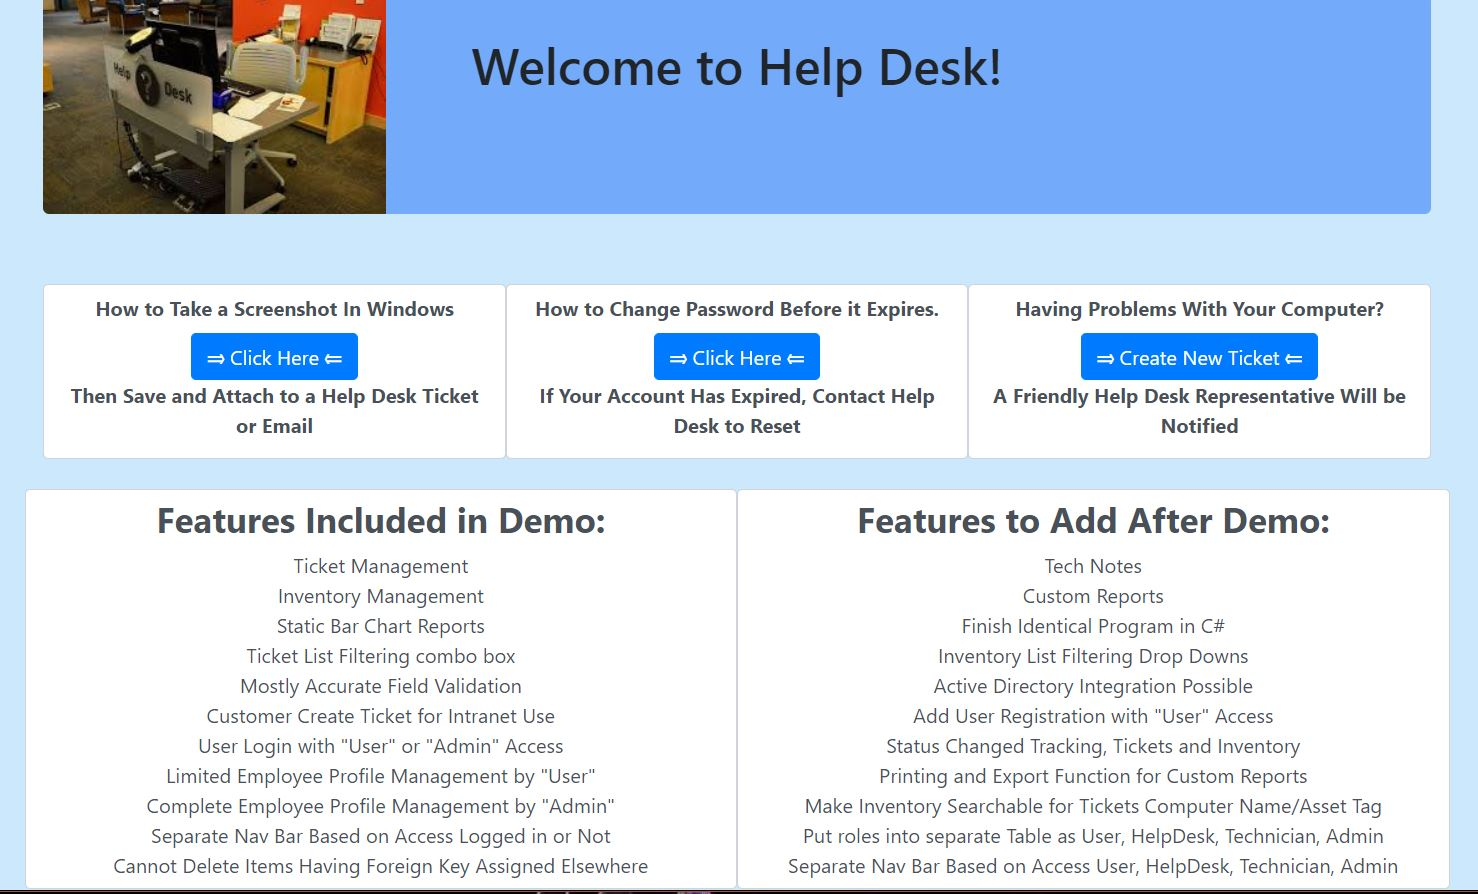
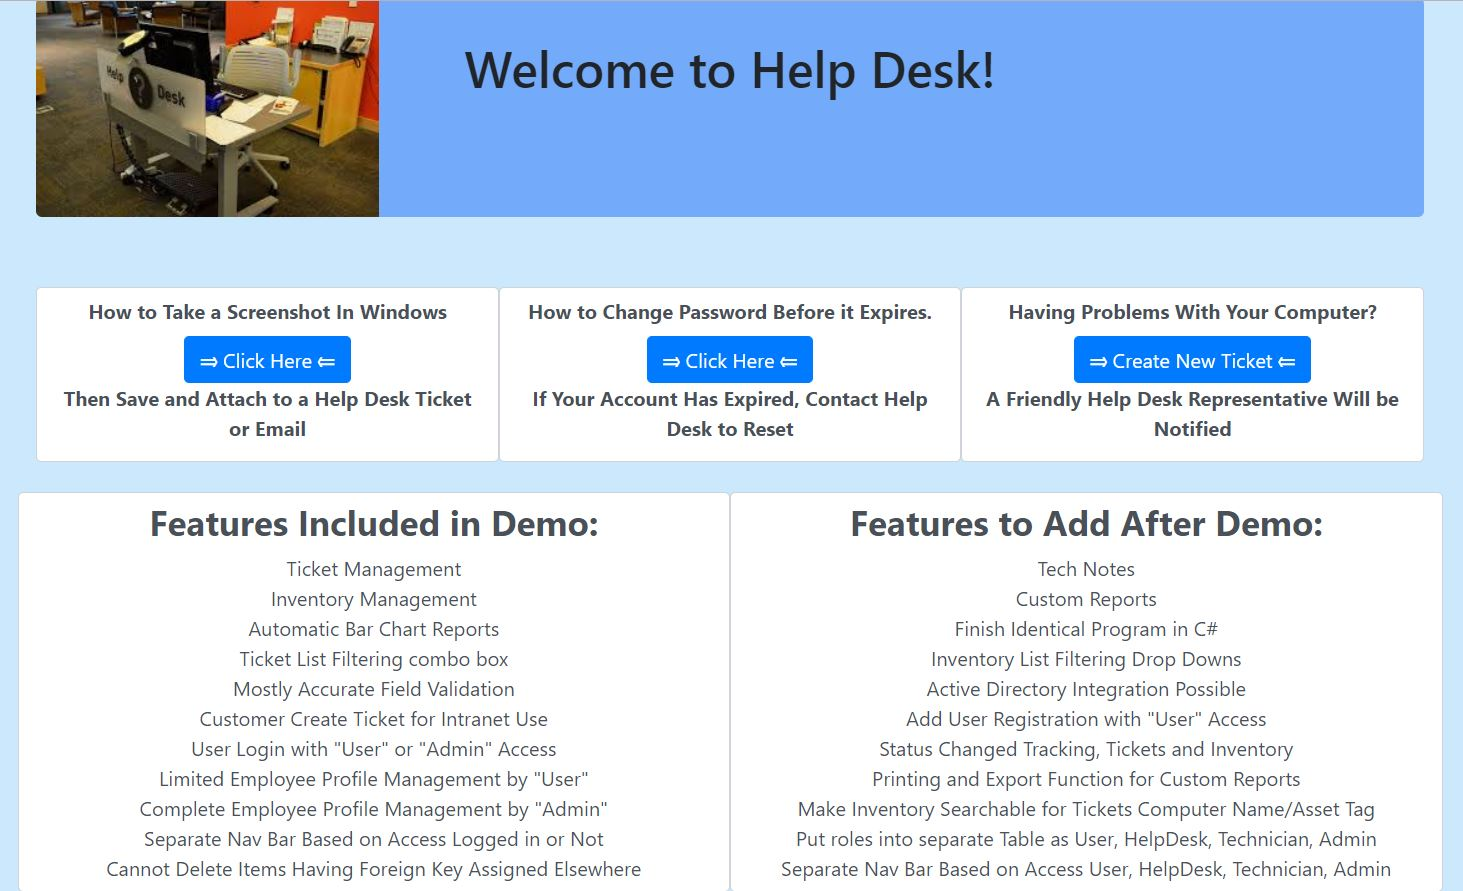
Update Home Page and README.md

Changed region(s): [[0.0, 0.303, 1.0, 1.0], [0.0, 0.0, 0.9843, 0.2424], [0.3076, 0.0303, 0.6767, 0.1212]]

diff --git a/app/views/Home/index.scala.html b/app/views/Home/index.scala.html
@@ -51,7 +51,7 @@
 
             Ticket Management<br>
             Inventory Management<br>
-            Dynamic Bar Chart Reports<br>
+            Automatic Bar Chart Reports<br>
             Ticket List Filtering combo box<br>
             Mostly Accurate Field Validation<br>
             Customer Create Ticket for Intranet Use<br>

diff --git a/README.md b/README.md
@@ -45,7 +45,7 @@ Other Images Can be Found in the "/public/images" Folder
 
  * Ticket Management
  * Inventory Management
- * Static Bar Chart Reports
+ * Automatic Bar Chart Reports
  * Ticket List Filtering combo box
  * Mostly Accurate Field Validation
  * Customer Create Ticket for Intranet Use
